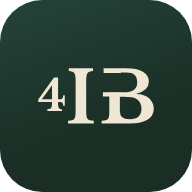
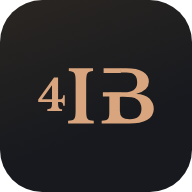
Colores de la marca: negro, cuero y camel como la gorra del hierro
Claude-Session: https://claude.ai/code/session_01Y43tWTdAc4XEK4T5bU19Go

diff --git a/index.html b/index.html
@@ -4,7 +4,7 @@
 <meta charset="utf-8">
 <meta name="viewport" content="width=device-width, initial-scale=1, viewport-fit=cover">
 <title>Cuaderno de las Fincas</title>
-<meta name="theme-color" content="#1A2E25">
+<meta name="theme-color" content="#17191E">
 <meta name="apple-mobile-web-app-capable" content="yes">
 <meta name="mobile-web-app-capable" content="yes">
 <meta name="apple-mobile-web-app-status-bar-style" content="default">
@@ -21,10 +21,10 @@
 @font-face { font-family:'Cormorant Garamond'; font-style:normal; font-weight:700; font-display:swap; src:url(fonts/cormorant-garamond-latin-700-normal.woff2) format('woff2'); }
 /* Layout: mobile app shell. Sticky app bar + fixed bottom tab bar on phones; left sidebar on wide screens. Cards on a soft ground. */
 :root {
-  --bg:#F6F5F1; --surface:#FFFFFF; --sunk:#F0EEE8; --ink:#1B1F1C; --muted:#5E665F; --line:#E5E2DA; --line-strong:#D2CEC3;
-  --paramo:#1F4A38; --paramo-2:#2A5E48; --paramo-soft:#E5EEE8; --papa:#9A7430; --papa-soft:#F4ECDC; --tierra:#8E4B36; --tierra-soft:#F4E5DE;
-  --good:#2B6A4A; --warn:#94681E; --bad:#A63A2A; --on-accent:#FFFFFF; --hero:#1A2E25; --hero-ink:#F4F1EA; --hero-muted:#ADBFB3; --logo-gap:#1A2E25;
-  --shadow:0 1px 2px rgba(27,31,28,.05), 0 6px 18px rgba(27,31,28,.04);
+  --bg:#F5F2EC; --surface:#FFFFFF; --sunk:#EFEBE3; --ink:#1A1C20; --muted:#635F58; --line:#E6E0D6; --line-strong:#D3CBBE;
+  --paramo:#7A4B26; --paramo-2:#8E5A30; --paramo-soft:#F3E8DD; --papa:#B07A45; --papa-soft:#F6EBDD; --tierra:#4F6272; --tierra-soft:#E6EBF0;
+  --good:#2F6B47; --warn:#9A621C; --bad:#A63A2A; --on-accent:#FFFFFF; --hero:#17191E; --hero-ink:#F3EEE6; --hero-muted:#B3ADA3; --logo-gap:#17191E;
+  --shadow:0 1px 2px rgba(26,28,32,.05), 0 6px 18px rgba(26,28,32,.05);
   --f-display:'Inter', -apple-system, 'Segoe UI', system-ui, sans-serif;
   --f-body:'Inter', -apple-system, 'Segoe UI', system-ui, sans-serif;
   --f-num:'Inter', -apple-system, 'Segoe UI', system-ui, sans-serif;
@@ -33,14 +33,14 @@
   --r:16px; --r-s:12px; --side:236px; --bottom:64px;
 }
 @media (prefers-color-scheme: dark) { :root:not([data-theme="light"]) {
-  --bg:#0F1311; --surface:#161B18; --sunk:#1C221F; --ink:#E9E7E0; --muted:#9DA69F; --line:#252C28; --line-strong:#353D38;
-  --paramo:#8CC4A6; --paramo-2:#A3D3B9; --paramo-soft:#1B2D24; --papa:#D6B26E; --papa-soft:#2F2716; --tierra:#E09A82; --tierra-soft:#36231C;
-  --good:#8CC4A6; --warn:#D6B26E; --bad:#EE8E7A; --on-accent:#0F1311; --hero:#15231C; --hero-ink:#F1EEE6; --hero-muted:#A3B8AA; --logo-gap:#15231C;
+  --bg:#0F1012; --surface:#17191C; --sunk:#1E2024; --ink:#ECE7DF; --muted:#A39D94; --line:#272A2E; --line-strong:#363A3F;
+  --paramo:#D2A271; --paramo-2:#E0B788; --paramo-soft:#2E241A; --papa:#D9AE7C; --papa-soft:#30261A; --tierra:#9FB2C4; --tierra-soft:#1F2730;
+  --good:#8CC4A6; --warn:#E0B062; --bad:#EE8E7A; --on-accent:#16130F; --hero:#1B1D22; --hero-ink:#F1ECE4; --hero-muted:#ABA59C; --logo-gap:#1B1D22;
   --shadow:0 1px 2px rgba(0,0,0,.3); color-scheme:dark; } }
 :root[data-theme="dark"] {
-  --bg:#0F1311; --surface:#161B18; --sunk:#1C221F; --ink:#E9E7E0; --muted:#9DA69F; --line:#252C28; --line-strong:#353D38;
-  --paramo:#8CC4A6; --paramo-2:#A3D3B9; --paramo-soft:#1B2D24; --papa:#D6B26E; --papa-soft:#2F2716; --tierra:#E09A82; --tierra-soft:#36231C;
-  --good:#8CC4A6; --warn:#D6B26E; --bad:#EE8E7A; --on-accent:#0F1311; --hero:#15231C; --hero-ink:#F1EEE6; --hero-muted:#A3B8AA; --logo-gap:#15231C;
+  --bg:#0F1012; --surface:#17191C; --sunk:#1E2024; --ink:#ECE7DF; --muted:#A39D94; --line:#272A2E; --line-strong:#363A3F;
+  --paramo:#D2A271; --paramo-2:#E0B788; --paramo-soft:#2E241A; --papa:#D9AE7C; --papa-soft:#30261A; --tierra:#9FB2C4; --tierra-soft:#1F2730;
+  --good:#8CC4A6; --warn:#E0B062; --bad:#EE8E7A; --on-accent:#16130F; --hero:#1B1D22; --hero-ink:#F1ECE4; --hero-muted:#ABA59C; --logo-gap:#1B1D22;
   --shadow:0 1px 2px rgba(0,0,0,.3); color-scheme:dark; }
 * { box-sizing:border-box; -webkit-tap-highlight-color:transparent; }
 html, body { background:var(--bg); }
@@ -55,7 +55,7 @@ body::before { content:""; position:fixed; inset:0 0 auto; height:env(safe-area-
 .appbar { position:sticky; top:env(safe-area-inset-top, 0px); z-index:20; background:color-mix(in srgb, var(--surface) 92%, transparent); backdrop-filter:saturate(1.4) blur(10px); -webkit-backdrop-filter:saturate(1.4) blur(10px); border-bottom:1px solid var(--line); }
 .appbar-in { padding-left:max(16px, env(safe-area-inset-left, 0px)); padding-right:max(16px, env(safe-area-inset-right, 0px)); padding-block:10px; display:flex; flex-wrap:wrap; align-items:center; gap:8px 12px; max-width:1100px; margin:0 auto; }
 .appbar-title { flex:1 1 auto; min-width:0; display:flex; align-items:center; gap:10px; }
-.logo { width:44px; height:36px; border-radius:10px; background:var(--hero); color:#EFE6D3; display:grid; place-items:center; flex:none; }
+.logo { width:44px; height:36px; border-radius:10px; background:var(--hero); color:#D9A57E; display:grid; place-items:center; flex:none; }
 .logo svg { width:24px; height:24px; } .logo svg.mono { width:auto; height:17px; }
 .appbar-title .t1 { font-family:var(--f-display); font-weight:700; font-size:1.2rem; line-height:1.1; margin:0; }
 .appbar-title .t0 { font-size:0.74rem; color:var(--muted); line-height:1.2; margin:0; } .appbar-title .t0.brand { font-family:var(--f-brand); font-weight:700; font-size:0.92rem; color:var(--papa); letter-spacing:.01em; }
@@ -70,7 +70,7 @@ main.view { max-width:1100px; margin:0 auto; padding-left:max(16px, env(safe-are
 .bt { appearance:none; border:0; background:none; color:var(--muted); display:flex; flex-direction:column; align-items:center; justify-content:center; gap:3px; font:600 0.68rem var(--f-body); cursor:pointer; padding:6px 2px; min-width:0; }
 .bt[aria-current="page"] { color:var(--paramo); }
 .bt[aria-current="page"] .ico { stroke-width:2.2; }
-.bt.fab .fab-c { width:46px; height:46px; border-radius:16px; background:var(--paramo); color:var(--on-accent); display:grid; place-items:center; margin-top:-18px; box-shadow:0 6px 16px rgba(31,90,64,.35); }
+.bt.fab .fab-c { width:46px; height:46px; border-radius:16px; background:var(--paramo); color:var(--on-accent); display:grid; place-items:center; margin-top:-18px; box-shadow:0 6px 16px rgba(122,75,38,.35); }
 .bt.fab .ico { width:24px; height:24px; stroke-width:2.4; }
 /* sheet */
 .scrim { position:fixed; inset:0; background:rgba(10,20,14,.38); z-index:40; }
@@ -111,7 +111,7 @@ p { margin:0; }
 .eyebrow { font-size:0.72rem; letter-spacing:0.08em; text-transform:uppercase; color:var(--muted); font-weight:700; }
 .sec-head { display:flex; flex-wrap:wrap; align-items:center; justify-content:space-between; gap:8px; }
 .panel { background:var(--surface); border:1px solid var(--line); border-radius:var(--r); padding:16px; display:flex; flex-direction:column; gap:12px; min-width:0; box-shadow:var(--shadow); }
-.hero { background:linear-gradient(160deg, color-mix(in srgb, var(--hero) 88%, #3d6b55) 0%, var(--hero) 60%); color:var(--hero-ink); border-radius:20px; padding:20px; display:flex; flex-direction:column; gap:14px; box-shadow:0 8px 24px rgba(23,63,46,.22); }
+.hero { background:linear-gradient(160deg, color-mix(in srgb, var(--hero) 84%, #6b4a2e) 0%, var(--hero) 60%); color:var(--hero-ink); border-radius:20px; padding:20px; display:flex; flex-direction:column; gap:14px; box-shadow:0 8px 24px rgba(23,25,30,.25); }
 .hero .hl { font-size:0.8rem; color:var(--hero-muted); font-weight:700; letter-spacing:0.04em; text-transform:uppercase; }
 .hero .hv { font-family:var(--f-num); font-size:2.3rem; line-height:1.05; font-weight:600; letter-spacing:-0.03em; }
 .hero .hs { color:var(--hero-muted); font-size:0.88rem; }
@@ -120,7 +120,7 @@ p { margin:0; }
 .hero-row span { font-size:0.74rem; color:var(--hero-muted); }
 .hero-row b { font-family:var(--f-num); font-weight:500; font-size:1.05rem; overflow-wrap:anywhere; }
 .bar { height:8px; border-radius:8px; background:rgba(255,255,255,.14); overflow:hidden; }
-.bar > i { display:block; height:100%; background:#D6B26E; border-radius:8px; }
+.bar > i { display:block; height:100%; background:#C99564; border-radius:8px; }
 .kpis { display:grid; grid-template-columns:repeat(auto-fit, minmax(150px, 1fr)); gap:10px; }
 .kpi { background:var(--surface); border:1px solid var(--line); border-radius:var(--r); padding:14px; display:flex; flex-direction:column; gap:2px; min-width:0; box-shadow:var(--shadow); }
 .kpi-l { font-size:0.78rem; color:var(--muted); font-weight:700; }
@@ -148,7 +148,7 @@ tr.total td { font-weight:700; background:var(--sunk); }
 .c-warn { background:var(--papa-soft); color:var(--warn); }
 .btn { appearance:none; border:1px solid var(--line-strong); background:var(--surface); color:var(--ink); font:600 0.92rem var(--f-body); padding:9px 16px; border-radius:12px; cursor:pointer; display:inline-flex; align-items:center; gap:6px; justify-content:center; min-height:42px; }
 .btn:hover { border-color:var(--muted); }
-.btn.primary { background:var(--paramo); border-color:var(--paramo); color:var(--on-accent); box-shadow:0 2px 8px rgba(31,90,64,.25); }
+.btn.primary { background:var(--paramo); border-color:var(--paramo); color:var(--on-accent); box-shadow:0 2px 8px rgba(122,75,38,.25); }
 .btn.primary:hover { background:var(--paramo-2); }
 .btn.danger { color:var(--bad); }
 .btn.ghost { border-color:transparent; background:none; padding-inline:10px; min-height:36px; }

diff --git a/sw.js b/sw.js
@@ -1,5 +1,5 @@
 // Keeps the app shell on the phone so it opens without signal. Data sync is Firestore's job.
-const V = 'fincas-v4';
+const V = 'fincas-v5';
 const SHELL = ['./', 'index.html', 'app.js', 'config.js', 'manifest.webmanifest', 'icon-192.png', 'apple-touch-icon.png', 'fonts/inter-latin-400-normal.woff2', 'fonts/inter-latin-500-normal.woff2', 'fonts/inter-latin-600-normal.woff2', 'fonts/inter-latin-700-normal.woff2', 'fonts/cormorant-garamond-latin-700-normal.woff2'];
 self.addEventListener('install', e => { e.waitUntil(caches.open(V).then(c => c.addAll(SHELL)).then(() => self.skipWaiting())); });
 self.addEventListener('activate', e => { e.waitUntil(caches.keys().then(ks => Promise.all(ks.filter(k => k !== V).map(k => caches.delete(k)))).then(() => self.clients.claim())); });
